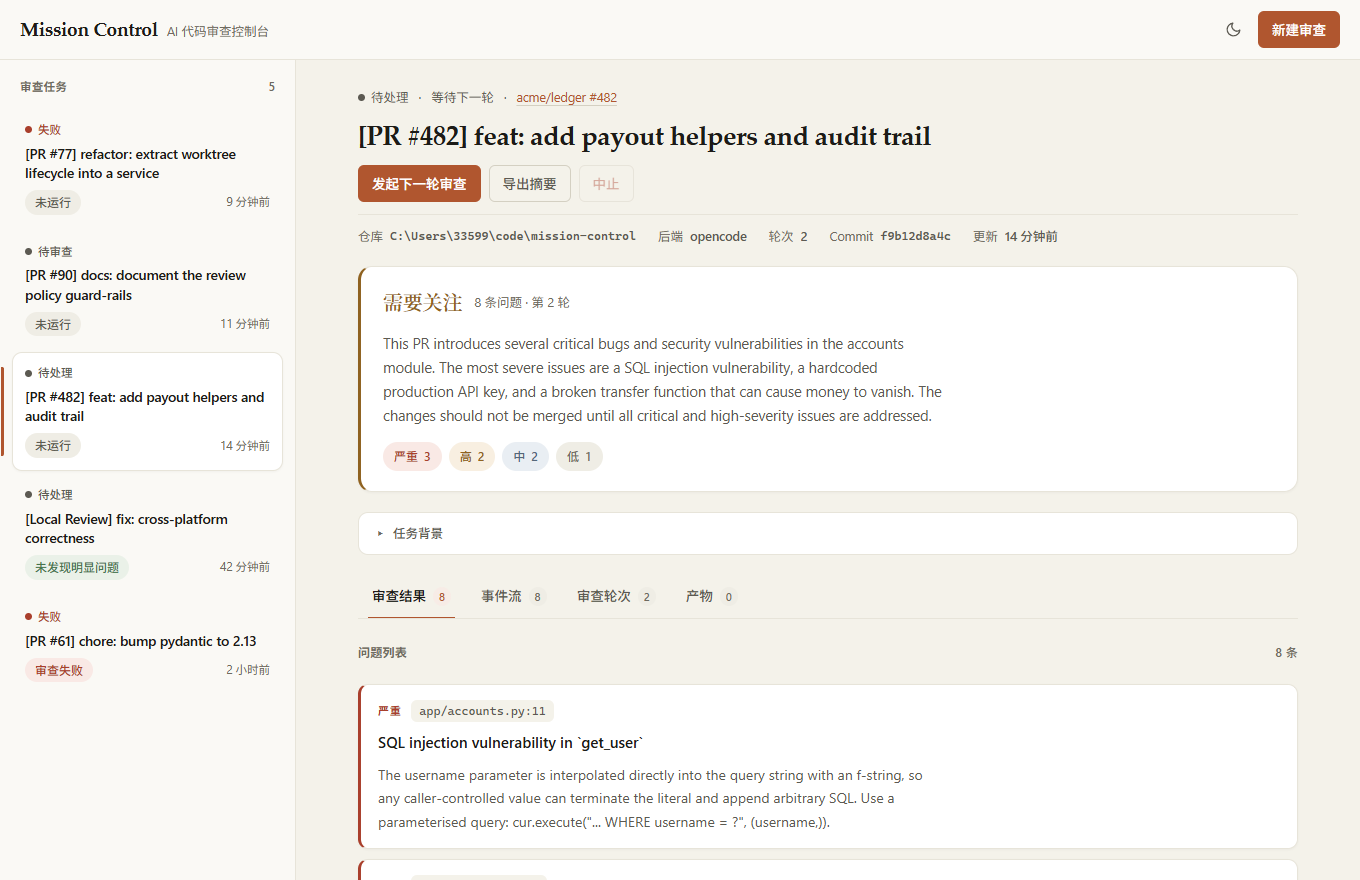
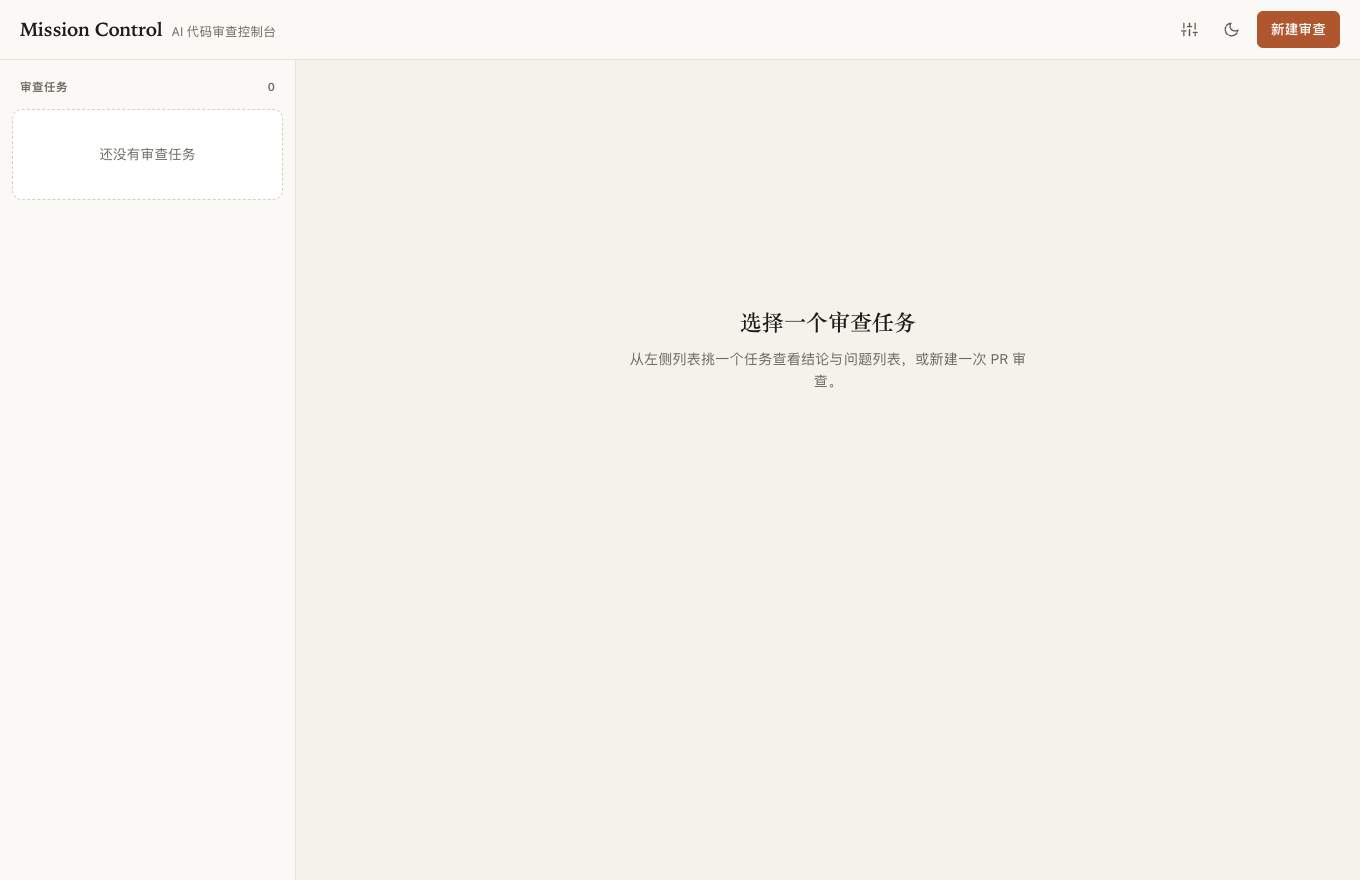
Update review page screenshots with new topbar and demo data
- Adds seed_demo_simple.py to generate realistic demo review data
  (payment webhook handler with 6 findings: 2 high, 2 medium, 2 low)
- Updates review-{light,dark,mobile}.png to show the new topbar with
  model selection icon (from #20)
- Screenshots captured at 1360x880 (desktop) and 390x800 (mobile)
  using headless Edge over CDP

diff --git a/scripts/seed_demo_simple.py b/scripts/seed_demo_simple.py
@@ -1,0 +1,125 @@
+#!/usr/bin/env python3
+"""Generate demo review data without importing app modules."""
+import json
+import sqlite3
+import sys
+import time
+from pathlib import Path
+
+def create_demo_data(db_path: str):
+    """Create demo task with review findings directly via SQL."""
+    conn = sqlite3.connect(db_path)
+
+    # Clear existing demo data
+    conn.execute("DELETE FROM tasks WHERE id LIKE 'demo%'")
+    conn.execute("DELETE FROM runs WHERE task_id LIKE 'demo%'")
+    conn.commit()
+
+    task_id = 'demo001'
+    now = time.time()
+
+    # Create review findings
+    findings = [
+        {
+            'severity': 'high',
+            'summary': 'Webhook signature verification missing for critical payment events',
+            'path': 'src/webhooks/stripe_handler.py',
+            'line': 45,
+            'detail': 'The webhook handler processes payment.succeeded events without verifying the Stripe signature. An attacker could send forged webhook requests to trigger unauthorized payment confirmations or account credits.'
+        },
+        {
+            'severity': 'high',
+            'summary': 'SQL injection vulnerability in transaction lookup',
+            'path': 'src/models/transaction.py',
+            'line': 128,
+            'detail': 'The find_by_external_id method builds a SQL query using string formatting with unsanitized user input from the webhook payload. Use parameterized queries instead.'
+        },
+        {
+            'severity': 'medium',
+            'summary': 'Insufficient error handling may expose internal state',
+            'path': 'src/webhooks/stripe_handler.py',
+            'line': 78,
+            'detail': 'Database connection errors are caught but the full exception message (including connection string components) is returned in the HTTP response. Log the error internally and return a generic 500 message to the client.'
+        },
+        {
+            'severity': 'medium',
+            'summary': 'Race condition in idempotency check',
+            'path': 'src/webhooks/stripe_handler.py',
+            'line': 62,
+            'detail': 'The idempotency key check and insert happen in separate transactions. Two concurrent requests with the same event ID could both pass the check and process the webhook twice. Use a unique constraint or SELECT FOR UPDATE.'
+        },
+        {
+            'severity': 'low',
+            'summary': 'Hardcoded retry limit should be configurable',
+            'path': 'src/webhooks/stripe_handler.py',
+            'line': 23,
+            'detail': 'MAX_RETRIES = 3 is defined as a constant. Consider making this configurable via environment variable or application config for operational flexibility.'
+        },
+        {
+            'severity': 'low',
+            'summary': 'Missing type hint for webhook_data parameter',
+            'path': 'src/webhooks/stripe_handler.py',
+            'line': 38,
+            'detail': 'The process_webhook function signature lacks a type annotation for webhook_data. Adding dict[str, Any] improves code maintainability and enables better IDE support.'
+        }
+    ]
+
+    review_result = {
+        'verdict': 'concerns',
+        'summary': 'Found 2 high-severity security issues and 4 additional concerns',
+        'findings': findings,
+        'metrics': {'total_findings': 6, 'high': 2, 'medium': 2, 'low': 2}
+    }
+
+    task_data = {
+        'id': task_id,
+        'repo_path': '/Users/demo/projects/payment-service',
+        'source_type': 'pull_request',
+        'pr_url': 'https://github.com/example/payment-service/pull/142',
+        'base': 'main',
+        'title': 'Add Stripe webhook handler for payment events',
+        'review_focus': 'Security, error handling, and data validation',
+        'backend': 'opencode',
+        'tags': ['security', 'payments'],
+        'status': 'completed',
+        'current_stage': 'completed',
+        'created_at': now - 3600,
+        'updated_at': now - 120,
+        'last_run_id': 'run001',
+        'latest_review_result': review_result
+    }
+
+    run_data = {
+        'id': 'run001',
+        'task_id': task_id,
+        'backend': 'opencode',
+        'round_index': 1,
+        'review_note': 'Initial security review',
+        'review_revision': 'a3f9c8b',
+        'backend_session_id': 'sess_xyz789',
+        'status': 'completed',
+        'review_result': review_result,
+        'metrics': {
+            'duration_seconds': 127,
+            'tokens_used': 8450,
+            'model': 'gpt-6-astra'
+        },
+        'started_at': now - 300,
+        'ended_at': now - 173
+    }
+
+    # Insert task and run
+    conn.execute('INSERT INTO tasks (id, data) VALUES (?, ?)',
+                 (task_id, json.dumps(task_data)))
+    conn.execute('INSERT INTO runs (id, task_id, data) VALUES (?, ?, ?)',
+                 ('run001', task_id, json.dumps(run_data)))
+    conn.commit()
+    conn.close()
+
+    print(f'Created demo task {task_id}')
+    print(f'Database: {Path(db_path).absolute()}')
+    print(f'View at: http://localhost:5199/review/{task_id}')
+
+if __name__ == '__main__':
+    db_path = sys.argv[1] if len(sys.argv) > 1 else 'data/amc.db'
+    create_demo_data(db_path)
